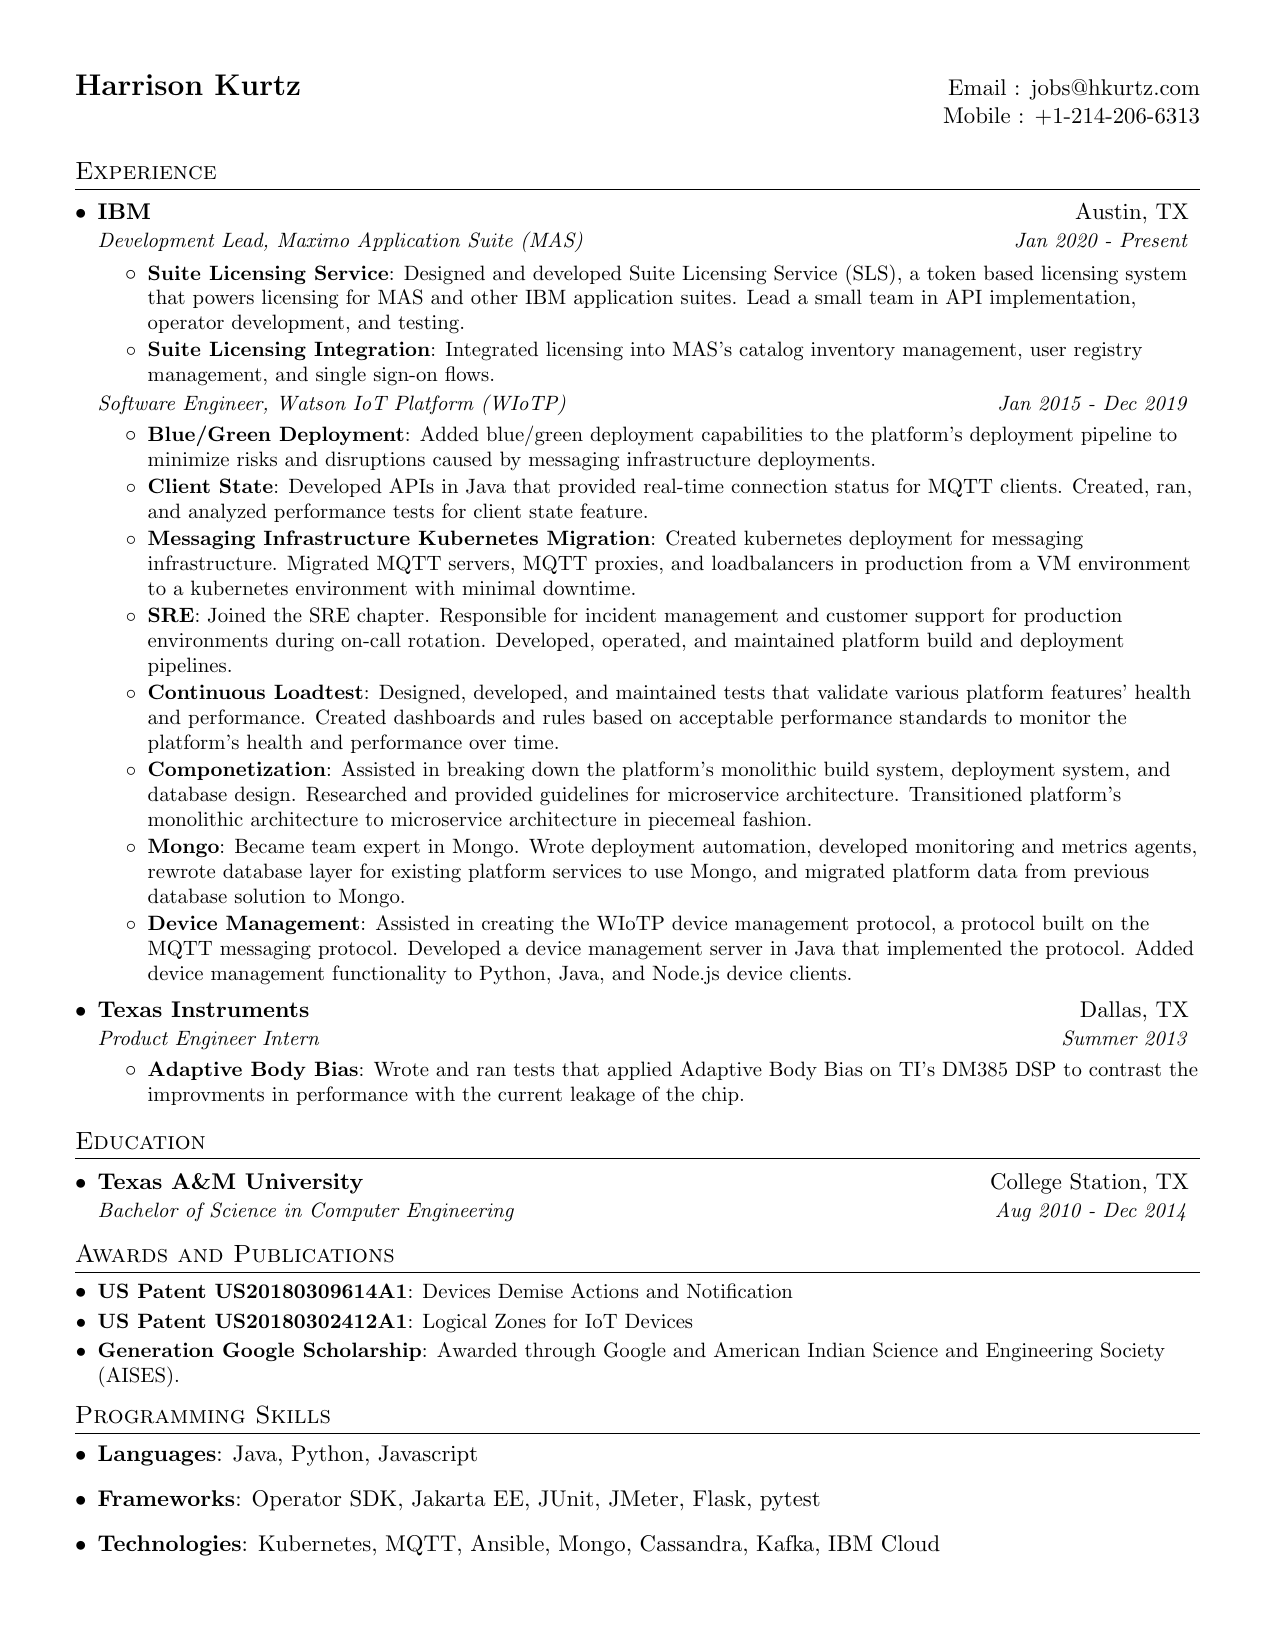
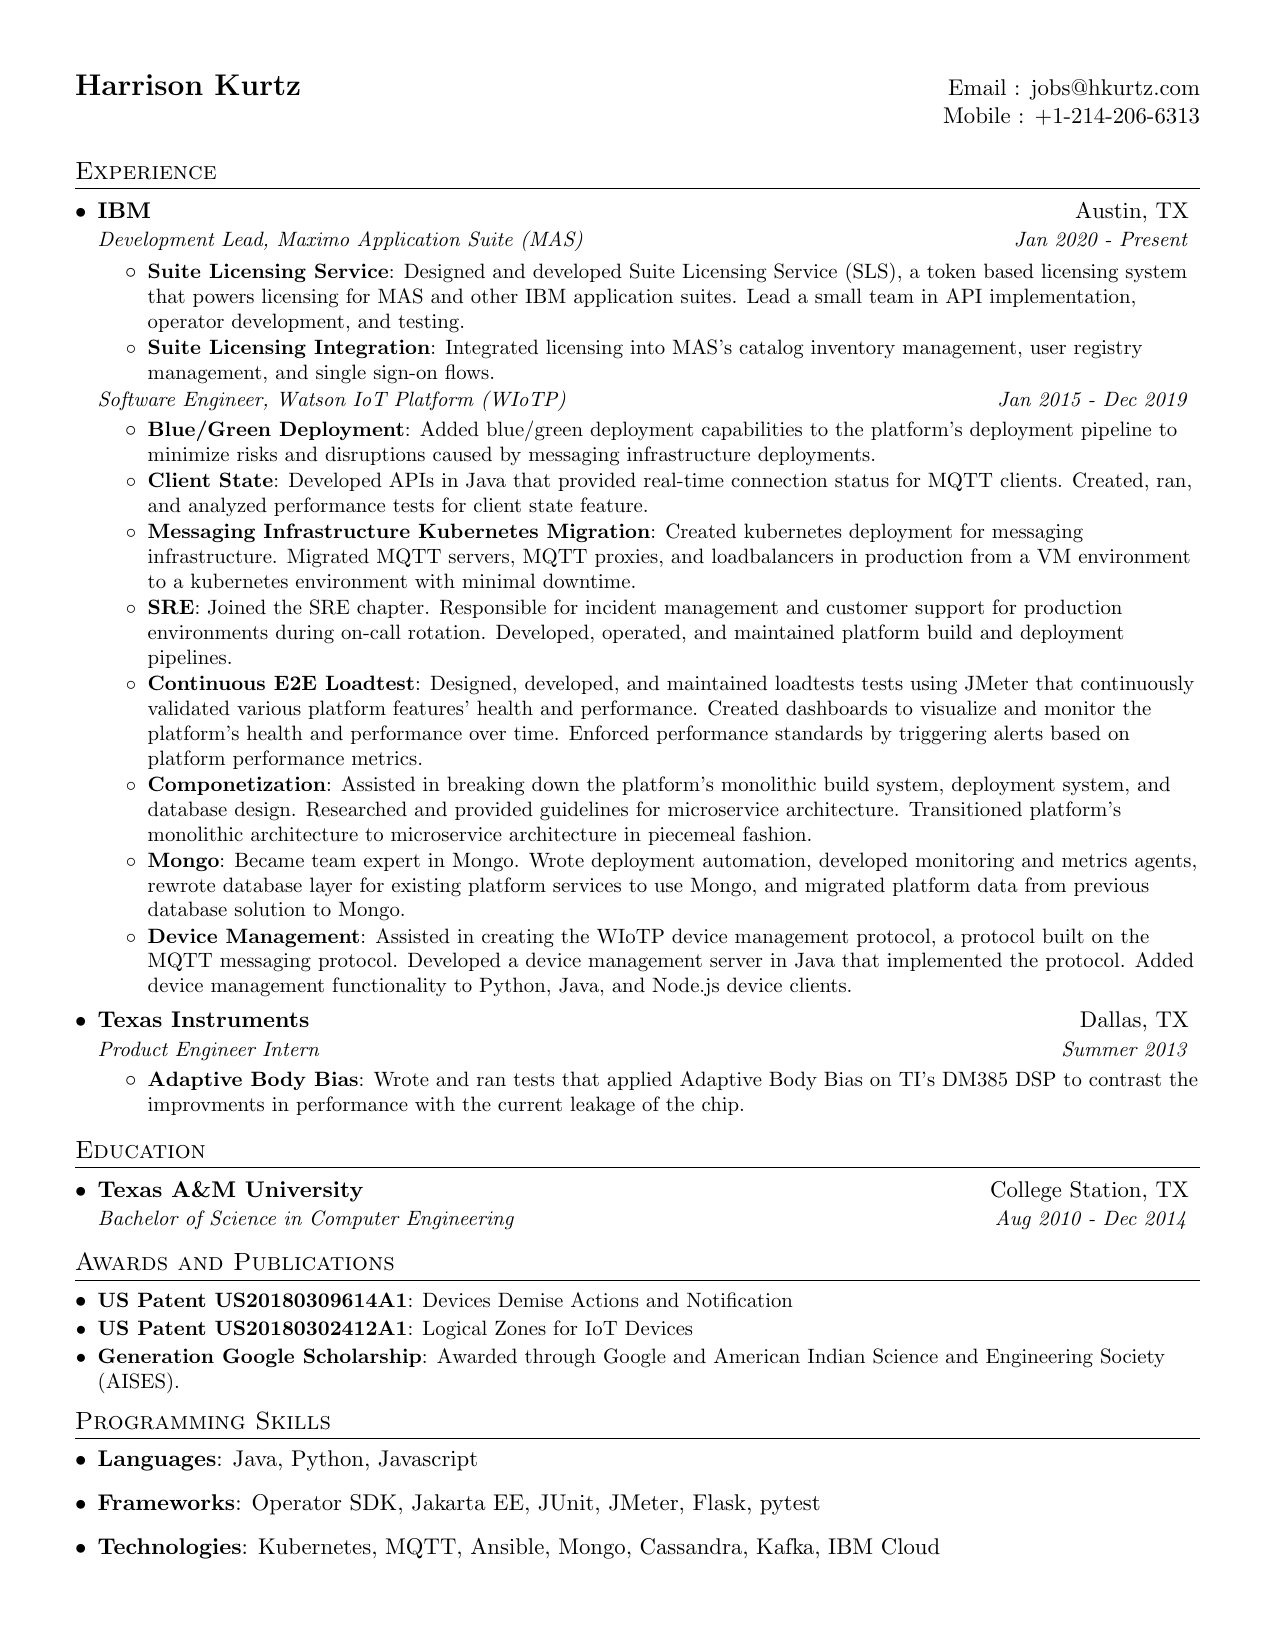
Update loadtest section

Changed region(s): [[0.0612, 0.1236, 0.9482, 0.9576], [0.7647, 0.7105, 0.9482, 0.7414], [0.7035, 0.6487, 0.8259, 0.6796]]

diff --git a/hkurtz_resume.tex b/hkurtz_resume.tex
@@ -129,8 +129,8 @@
             {Created kubernetes deployment for messaging infrastructure. Migrated MQTT servers, MQTT proxies, and loadbalancers in production from a VM environment to a kubernetes environment with minimal downtime.}
           \resumeItem{SRE}
             {Joined the SRE chapter. Responsible for incident management and customer support for production environments during on-call rotation. Developed, operated, and maintained platform build and deployment pipelines.}
-          \resumeItem{Continuous Loadtest}
-            {Designed, developed, and maintained tests that validate various platform features' health and performance. Created dashboards and rules based on acceptable performance standards to monitor the platform's health and performance over time.}
+          \resumeItem{Continuous E2E Loadtest}
+            {Designed, developed, and maintained loadtests tests using JMeter that continuously validated various platform features' health and performance. Created dashboards to visualize and monitor the platform's health and performance over time. Enforced performance standards by triggering alerts based on platform performance metrics.}
           \resumeItem{Componetization}
             {Assisted in breaking down the platform's monolithic build system, deployment system, and database design. Researched and provided guidelines for microservice architecture. Transitioned platform's monolithic architecture to microservice architecture in piecemeal fashion.}
           \resumeItem{Mongo}
